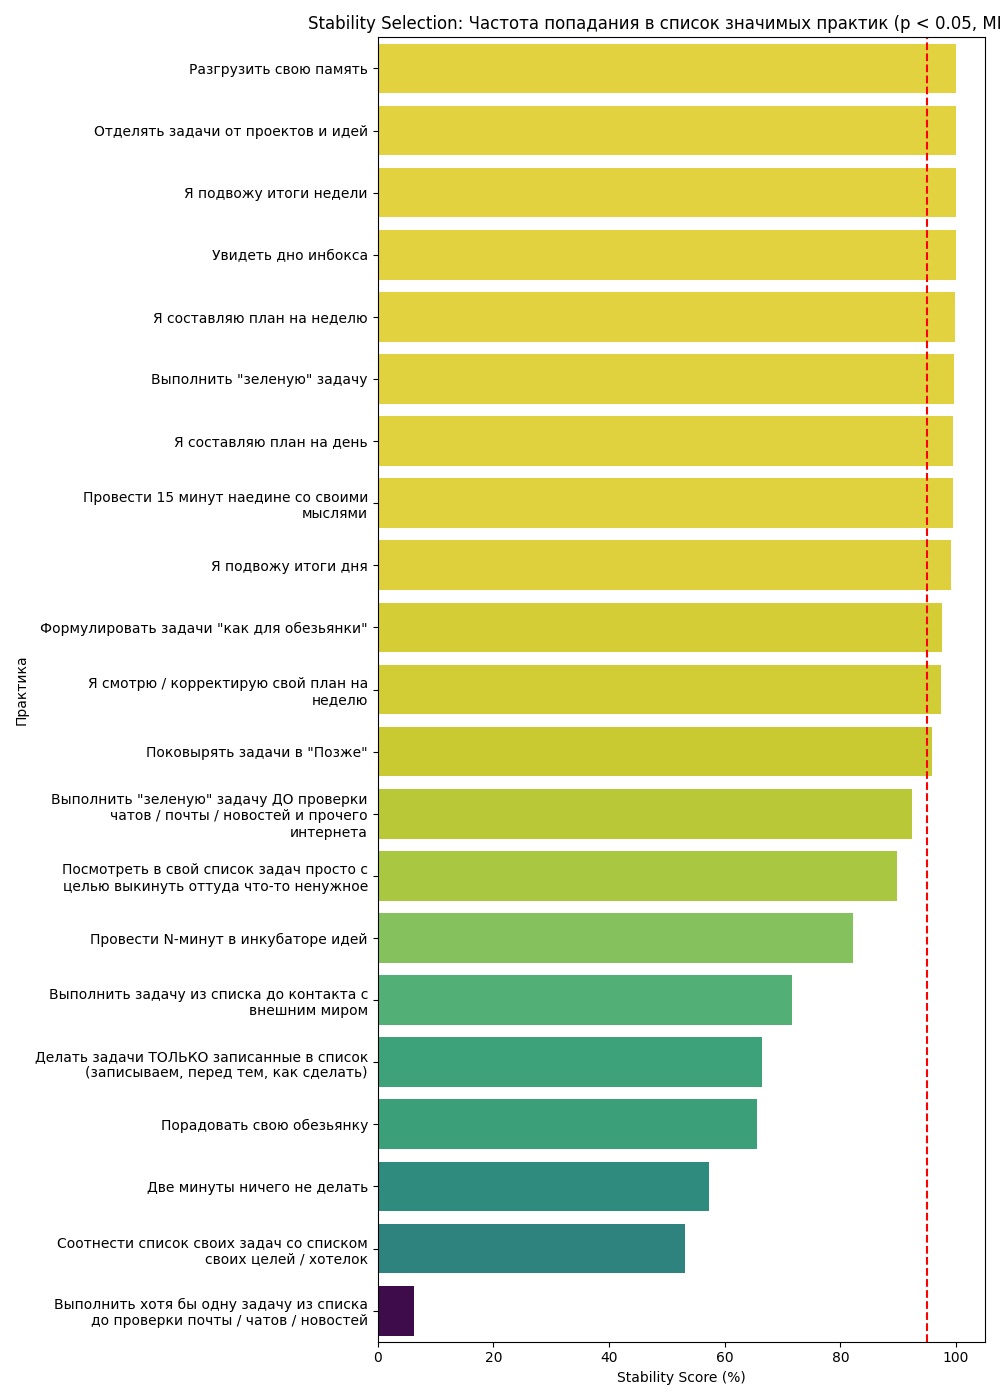
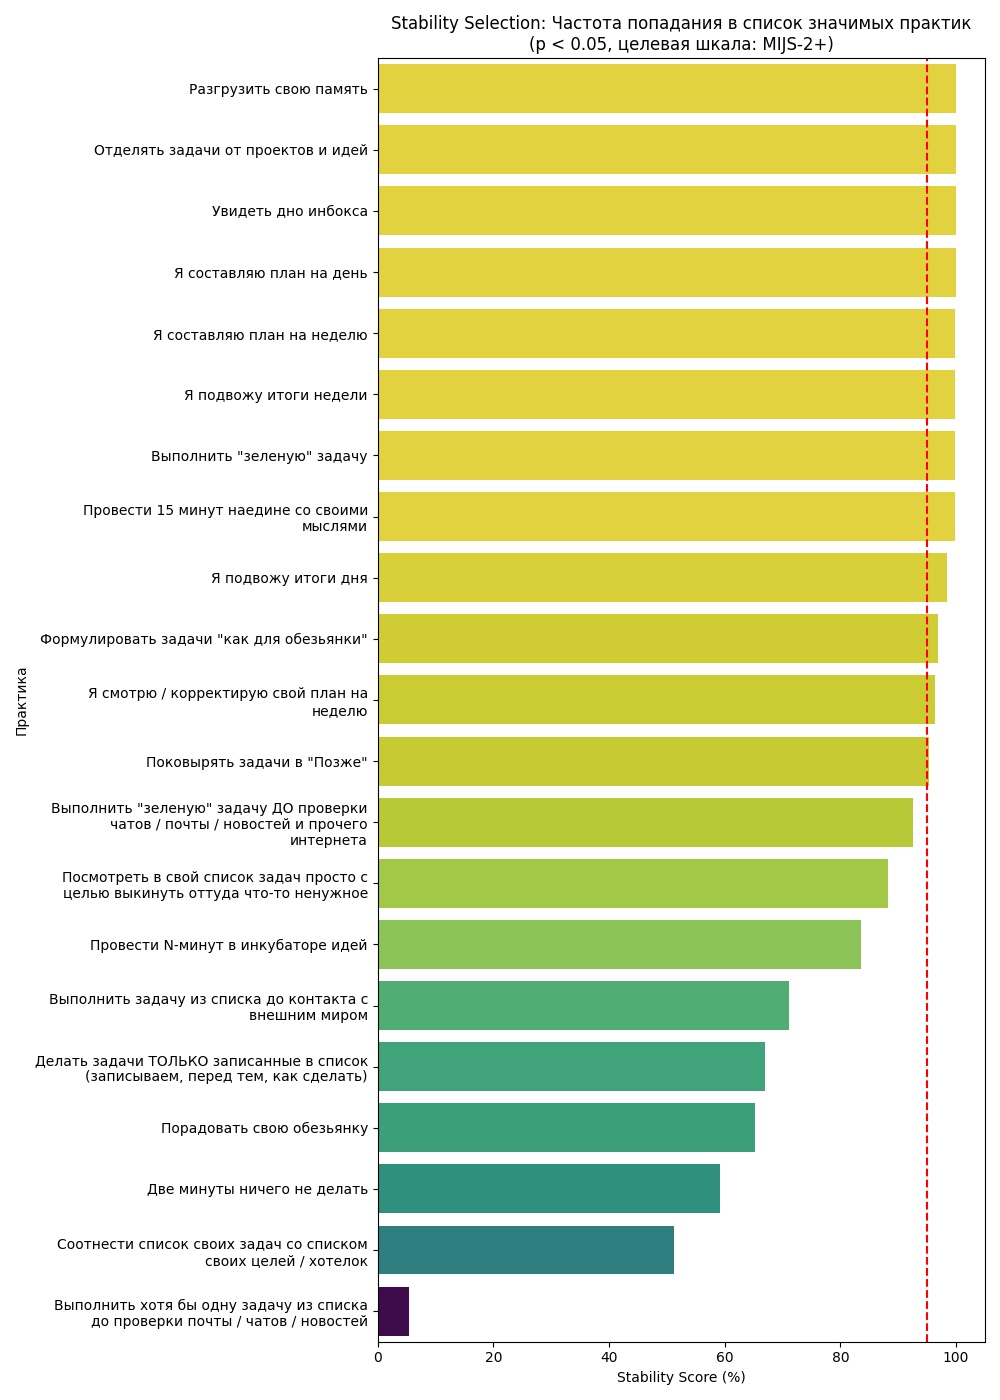
Сделал перенос строк в графике

diff --git a/Survey-01/stability_analysis.py b/Survey-01/stability_analysis.py
@@ -286,7 +286,7 @@ def run_stability_analysis():
     
     sns.barplot(data=df_plot, x='Stability', y='Label_Wrapped', hue='Stability', palette='viridis', legend=False)
     plt.axvline(CORE_THRESHOLD, color='red', linestyle='--', label=f'{CORE_THRESHOLD}% Threshold')
-    plt.title(f"Stability Selection: Частота попадания в список значимых практик (p < {P_VALUE_THRESHOLD}, {TARGET_SCALE})")
+    plt.title(f"Stability Selection: Частота попадания в список значимых практик\n(p < {P_VALUE_THRESHOLD}, целевая шкала: {TARGET_SCALE})")
     plt.xlabel("Stability Score (%)")
     plt.ylabel("Практика")
     plt.tight_layout()
